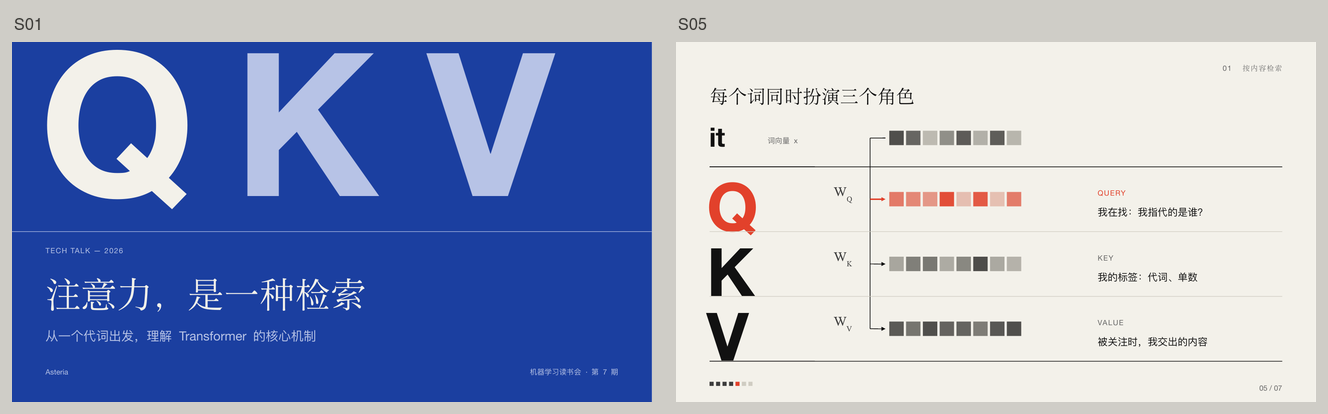
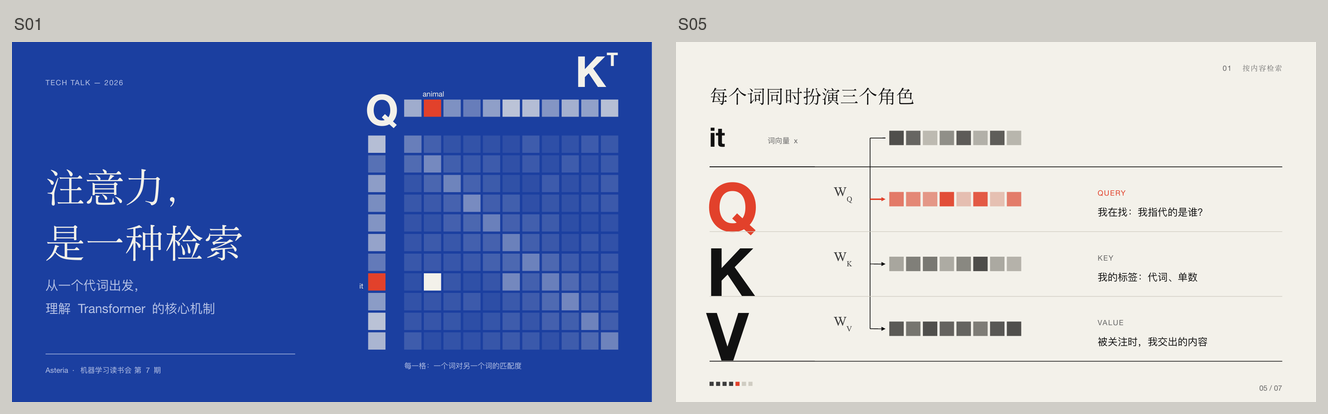
examples: revise B (lit, textured dark room) and C (cover shows the QKᵀ operation); record lessons
- B: warm charcoal ground with grain and a light falloff centred on the
  heatmap instead of flat near-black
- C: giant QKV letters replaced by the Q × Kᵀ → matrix operation at heading scale
- texture.js: --light option for subject-motivated light on dark pages
- anti-ai.md: oversized glyphs must carry meaning; bold needs substance
- color.md: dark pages need material (tinted dark, grain, motivated light)

diff --git a/examples/attention/directions/C/slides/S01-cover.js b/examples/attention/directions/C/slides/S01-cover.js
@@ -1,21 +1,52 @@
-// S01 — 封面：钴蓝色场，Q K V 三个巨大的字母从上方出血。符号本身就是主视觉。
+// S01 — 封面：钴蓝色场上画出 QKᵀ 这一次运算。Q 是一列，Kᵀ 是一行，相乘得到注意力矩阵；
+// 最亮的格子是 it → animal。符号仍然是主角，但每个符号都指向它所代表的东西。
+const TOKENS = ['The', 'animal', "didn't", 'cross', 'the', 'street', 'because', 'it', 'was', 'too', 'tired'];
+const N = TOKENS.length;
+function weight(r, c) {
+  if (r === 7 && c === 1) return 1;
+  if (r === 7 && c === 5) return 0.6;
+  const local = Math.exp(-Math.abs(r - c) * 1.1) * 0.5;
+  const s = Math.sin(r * 12.9898 + c * 78.233) * 43758.5453;
+  return Math.min(0.7, local + (s - Math.floor(s)) * 0.15);
+}
+const tone = (s) => { const v = Math.sin(s * 12.9898) * 43758.5453; return v - Math.floor(v); };
+
 module.exports = {
   id: 'S01',
   rhythm: 'anchor',
   title: '封面',
   transition: 'none',
-  notes: '开场：今天只讲一个想法——注意力机制本质上是一次“按内容检索”。Q、K、V 是今天的三个主角。',
+  notes: '开场：今天只讲一个想法——注意力机制本质上是一次“按内容检索”。右侧就是那次检索：每个词的 Query 与每个词的 Key 相乘，得到一张匹配度矩阵；最亮的一格是 it 找到了 animal。',
   build(k) {
     k.bg('field');
-    const glyphs = [['Q', 'fieldText'], ['K', 'fieldMuted'], ['V', 'fieldMuted']];
-    glyphs.forEach(([g, c], i) => {
-      k.text(g, { style: 'glyph', color: c, x: k.col(1 + i * 4) - 0.12, y: -0.95, w: 4, h: 5.05, bleed: true, nowrap: true, overlap: true });
-    });
-    k.rule({ x: 0, y: 3.95, w: k.W, color: 'fieldMuted', weight: 0.75 });
-    k.text('TECH TALK — 2026', { style: 'label', color: 'fieldMuted', x: k.M.x, y: 4.2, w: 4, nowrap: true });
-    k.text('注意力，是一种检索', { style: 'display', color: 'fieldText', x: k.M.x, y: 4.65, w: 9, nowrap: true });
-    k.text('从一个代词出发，理解 Transformer 的核心机制', { style: 'lead', color: 'fieldMuted', x: k.M.x, y: 5.8, w: 9, nowrap: true });
-    k.text('Asteria', { style: 'caption', color: 'fieldMuted', x: k.M.x, y: k.H - k.M.bottom - 0.26, w: 3, h: 0.26, nowrap: true });
-    k.text('机器学习读书会 · 第 7 期', { style: 'caption', color: 'fieldMuted', x: k.col(9), y: k.H - k.M.bottom - 0.26, w: k.span(9, 12).w, h: 0.26, align: 'right', nowrap: true });
+    const cell = 0.36, gap = 0.05, pitch = cell + gap;
+    const gx = k.W - k.M.x - N * pitch + gap;            // matrix
+    const gy = 1.95;
+    const qx = gx - 0.75;                                // Q column
+    const ky = gy - 0.75;                                // Kᵀ row
+    const cool = (t) => k.mix('field', 'fieldText', t);
+
+    for (let i = 0; i < N; i++) {
+      k.rect({ x: qx, y: gy + i * pitch, w: cell, h: cell, fill: i === 7 ? 'accent' : cool(0.25 + tone(i + 1) * 0.5) });
+      k.rect({ x: gx + i * pitch, y: ky, w: cell, h: cell, fill: i === 1 ? 'accent' : cool(0.25 + tone(i + 31) * 0.5) });
+      for (let j = 0; j < N; j++) {
+        const w = weight(i, j);
+        k.rect({ x: gx + j * pitch, y: gy + i * pitch, w: cell, h: cell, fill: w === 1 ? 'fieldText' : cool(0.08 + w * 0.55) });
+      }
+    }
+    // the operator's symbols, at the size of a heading rather than a wall
+    k.text('Q', { style: 'letter', size: 64, color: 'fieldText', x: qx - 0.05, y: ky - 0.35, w: 0.7, h: 1.1, nowrap: true, overlap: true });
+    k.text('K', { style: 'letter', size: 64, color: 'fieldText', x: gx + N * pitch - gap - 1.05, y: ky - 1.15, w: 0.8, h: 1.1, align: 'right', nowrap: true, overlap: true });
+    k.text('T', { style: 'letter', size: 28, color: 'fieldText', x: gx + N * pitch - gap - 0.24, y: ky - 1.08, w: 0.3, h: 0.5, nowrap: true, overlap: true });
+    k.text('it', { style: 'caption', font: 'latin', color: 'fieldText', x: qx - 0.5, y: gy + 7 * pitch + 0.08, w: 0.4, align: 'right', nowrap: true });
+    k.text('animal', { style: 'caption', font: 'latin', color: 'fieldText', x: gx + pitch - 0.35, y: ky - 0.3, w: 1.1, align: 'center', nowrap: true });
+    k.text('每一格：一个词对另一个词的匹配度', { style: 'caption', color: 'fieldMuted', x: gx, y: gy + N * pitch + 0.1, w: N * pitch, nowrap: true });
+
+    // type block, left
+    k.text('TECH TALK — 2026', { style: 'label', color: 'fieldMuted', x: k.M.x, y: k.M.top + 0.1, w: 4, nowrap: true });
+    k.text('注意力，\n是一种检索', { style: 'display', size: 60, color: 'fieldText', x: k.M.x, y: 2.35, w: 5.2, nowrap: true });
+    k.text('从一个代词出发，\n理解 Transformer 的核心机制', { style: 'lead', color: 'fieldMuted', x: k.M.x, y: 4.75, w: 5.2, nowrap: true });
+    k.rule({ x: k.M.x, y: k.H - k.M.bottom - 0.45, w: 5.2, color: 'fieldMuted', weight: 0.75 });
+    k.text('Asteria  ·  机器学习读书会 第 7 期', { style: 'caption', color: 'fieldMuted', x: k.M.x, y: k.H - k.M.bottom - 0.3, w: 5.2, h: 0.26, nowrap: true });
   },
 };

diff --git a/engine/texture.js b/engine/texture.js
@@ -1,9 +1,12 @@
 #!/usr/bin/env node
 // Generate a subtle paper-grain background for a given page color.
 //
-//   node engine/texture.js <hex> <out.jpg> [--strength 1]
+//   node engine/texture.js <hex> <out.jpg> [--strength 1] [--light cx,cy,radius,#hex]
 //
 // strength 1 ≈ luminance σ 1.9 on a light page: visible up close, calm from a distance. Use 0.5–1.5.
+// --light adds a soft light falloff around a point (cx, cy as fractions of the page, radius as a fraction
+// of the page width) — for dark pages where the subject is the light source, e.g. --light 0.72,0.5,0.6,#2A241F.
+// Only use it when something on the page motivates the light; a glow for its own sake is decoration.
 // Wire it up in theme.js: backgroundImages: { paper: 'assets/grain-paper.jpg' }.
 
 const fs = require('fs');
@@ -18,6 +21,8 @@ if (!/^#?[0-9a-fA-F]{6}$/.test(hex || '') || !out) {
 }
 const si = rest.indexOf('--strength');
 const strength = si >= 0 ? Number(rest[si + 1]) : 1;
+const li = rest.indexOf('--light');
+const light = li >= 0 ? rest[li + 1].split(',') : null;
 // Contrast window for the noise layers: narrower window = stronger grain.
 const win = (base) => { const half = Math.min(49, base / strength); return [`${50 - half}%`, `${50 + half}%`]; };
 
@@ -30,7 +35,17 @@ run(['-size', `${W}x${H}`, 'xc:gray50', '-seed', '3', '-attenuate', '1', '+noise
 run(['-size', `${Math.round(W / 20)}x${Math.round(H / 20)}`, 'xc:gray50', '-seed', '9', '-attenuate', '1', '+noise', 'Gaussian', '-colorspace', 'gray', '-blur', '0x2', '-resize', `${W}x${H}!`, mottle]);
 const [f0, f1] = win(25), [m0, m1] = win(20);
 fs.mkdirSync(path.dirname(path.resolve(out)), { recursive: true });
-run(['-size', `${W}x${H}`, `xc:#${hex.replace('#', '')}`,
+const base = `#${hex.replace('#', '')}`;
+const ground = path.join(tmp, 'ground.png');
+run(['-size', `${W}x${H}`, `xc:${base}`, ground]);
+if (light) {
+  const [cx, cy, rr, color] = light;
+  const r = Math.round(Number(rr) * W);
+  const glow = path.join(tmp, 'glow.png');
+  run(['-size', `${2 * r}x${2 * r}`, `radial-gradient:${color}-${base}`, glow]);
+  run([ground, glow, '-geometry', `+${Math.round(Number(cx) * W - r)}+${Math.round(Number(cy) * H - r)}`, '-compose', 'lighten', '-composite', ground]);
+}
+run([ground,
   '(', fine, '-level', `${f0},${f1}`, ')', '-compose', 'overlay', '-composite',
   '(', mottle, '-level', `${m0},${m1}`, ')', '-compose', 'overlay', '-composite',
   '-quality', '90', out]);

diff --git a/examples/attention/directions/B/theme.js b/examples/attention/directions/B/theme.js
@@ -6,8 +6,8 @@ module.exports = {
   lang: 'zh-CN',
   background: 'paper',
   colors: {
-    paper: '0F0F11',     // the room
-    paperDeep: '1B1A1E', // cold cells, quiet fields
+    paper: '17151A',     // the room: warm charcoal, never flat black
+    paperDeep: '221F24', // cold cells, quiet fields
     ink: 'F2F0EB',
     graphite: 'C9C5BD',
     stone: '9C978E',
@@ -38,6 +38,8 @@ module.exports = {
     number: { font: 'latinLight', size: 120, leading: 1, tracking: -3, color: 'ink' },
     math: { font: 'STIX Two Math', size: 30, leading: 1.2, color: 'ink' },
   },
+  // Grain + a soft light falloff: the matrix is the light source of the room (engine/texture.js --light).
+  backgroundImages: { paper: 'assets/room.jpg' },
   chart: { series: ['accent', 'stone'] },
   transition: 'fade',
 };

diff --git a/examples/attention/directions/B/slides/S01-cover.js b/examples/attention/directions/B/slides/S01-cover.js
@@ -16,6 +16,7 @@ module.exports = {
   transition: 'none',
   notes: '开场：今天只讲一个想法——注意力机制本质上是一次“按内容检索”。右侧是例句的注意力矩阵（示意），最亮的格子是 it 看向 animal。',
   build(k) {
+    k.bgImage('assets/room-cover.jpg'); // light centred on the matrix
     const N = TOKENS.length, cell = 0.5, gap = 0.06, pitch = cell + gap;
     const x0 = k.W - 0.55 - N * pitch + gap, y0 = (k.H - (N * pitch - gap)) / 2;
     for (let r = 0; r < N; r++) {

diff --git a/guides/aesthetic/color.md b/guides/aesthetic/color.md
@@ -23,7 +23,7 @@
 | 方向 | 气质 | paper | paperDeep | ink | graphite | stone | hairline | accent | 深色 / 色场 |
 |---|---|---|---|---|---|---|---|---|---|
 | 纸与墨 | 编辑、人文、安静 | `F4F2ED` | `E9E6DE` | `1B1B1A` | `4B4A46` | `6F6C65` | `D3CFC5` | `B4442B` 朱红 | night `151514` |
-| 暗场 | 电影感、发布会、整套深色 | `121212` | `1C1C1C` | `F2F0EB` | `C5C2BB` | `9A968E` | `3A3936` | `E3A33B` 琥珀 | — |
+| 暗场 | 电影感、发布会、整套深色 | `17151A` | `221F24` | `F2F0EB` | `C5C2BB` | `9A968E` | `3A3936` | `E3A33B` 琥珀 | — |
 | 色场 | 瑞士海报、强烈、自信 | `F3F1EA` | `E6E3D8` | `111111` | `3D3D3D` | `666666` | `CFCCC2` | `E2412B` 信号红 | field `1B3FA0` 钴蓝，文字 `F3F1EA` |
 | 实验室 | 技术、冷静、精确 | `F2F4F3` | `E4E8E6` | `1C2124` | `434A4E` | `687074` | `CED5D3` | `0F7B6C` 青绿 | night `0F1517` |
 | 植物 | 温和、自然、有机 | `EFEEE6` | `E3E1D5` | `1F241F` | `474D45` | `656A5F` | `D0CFC2` | `5B6B2F` 橄榄 | night `171A15` |
@@ -39,6 +39,10 @@
 - 在浅色为主的演示里，深色页和色场页用来制造节奏：章节转换、核心结论、签名画面。
 - 整套深色也是完全成立的方向，适合电影感、发布会或暗场环境。
 - 深色页的文字色要单独定义（`nightText`、`nightMuted`），不能直接复用浅色页的灰。
+- **深色不是纯平的近黑。** 平涂的 `#0F0F11` 加白字，是最典型的 AI 深色模板。深色要有材质：
+  - 带色相的深色：暖炭（`17151A`）、墨蓝、深橄榄，而不是中性黑；
+  - 颗粒：`node engine/texture.js <底色> out.jpg --strength 0.5`（深底上强度要比浅底低，0.5 左右即可）；
+  - 有来由的光：如果页面上有一个“光源”（热图、照片、发光的对象），可以加一圈柔和的光照衰减：`--light cx,cy,半径,#色值`。没有光源时不要加，那就成了装饰性的发光。
 
 ## 常见问题
 

diff --git a/guides/aesthetic/anti-ai.md b/guides/aesthetic/anti-ai.md
@@ -40,6 +40,7 @@ AI 生成的幻灯片一眼就能认出来，原因不是“丑”，而是**没
 - 主角太小，或者三个同样大小的元素等距排开，没有主角。
 - 留白被切成几条均匀的缝，而不是集中成一大块。
 - 丢掉了贯穿的例子：前一页刚讲过具体的例子，这一页又回到抽象。
+- 巨大的字形什么都不承载：把符号放大到占满半页，看起来大胆，其实是空的。放大的符号必须指向它所代表的东西（例：Q 旁边就是 Q 那一列格子），或者干脆缩小到标题的尺度。
 
 改法：讲解页要有一张图来承担机制，名字只是图上的标签。图的形式见 `data-and-diagrams.md` 的“图解配方”；用贯穿的例子把图填实；复用整套的母题；让图大起来。
 
@@ -61,7 +62,7 @@ AI 生成的幻灯片一眼就能认出来，原因不是“丑”，而是**没
 - 视觉语言从主题里推导（`principles.md` 第 2 条），并在设计文稿里写明它从内容的哪个特征来。
 - 样张阶段先做 2–3 个**截然不同**的方向放在一起比较，而不是直接深化第一个想到的方向。
 - 指定签名画面，并真正给它们更多的打磨。
-- 敢于用强烈的东西：满版的颜色、巨大的字、深色的整套、一张占满屏幕的图。克制是一种选择，不是默认值。
+- 敢于用强烈的东西：满版的颜色、巨大的字、深色的整套、一张占满屏幕的图。克制是一种选择，不是默认值。但“强烈”必须有内容支撑：大字要承载意义，深色要有材质。
 
 ## 四、自检问题
 

diff --git a/guides/aesthetic/composition.md b/guides/aesthetic/composition.md
@@ -83,7 +83,7 @@
 | **尺寸线** | 多长、多大、哪一段 | 工程图式：细线加两端短竖线，标注在下方 |
 | **刻度与对位** | 这一步对应图的哪一列 | 例：把公式拆成几步，分别对齐到画它的那一列，在分隔线上用刻度相连 |
 | **色块分区** | 这一块是不同的区域（输入 / 输出、正文 / 注释） | 整块平涂次背景色（paperDeep），可以出血；不加圆角、阴影和边框。分区内的小字改用 graphite 色，以保证对比度 |
-| **纸张颗粒** | 质感（整套统一） | `node engine/texture.js <背景色> assets/grain-paper.jpg` 生成，在 theme 中设置 `backgroundImages: { paper: ... }`。强度默认 1（亮度标准差约 1.9），必须在投影或大屏上确认效果 |
+| **纸张颗粒 / 光照** | 质感（整套统一）；深色页上由主体驱动的光 | `node engine/texture.js <背景色> assets/grain-paper.jpg` 生成，在 theme 中设置 `backgroundImages: { paper: ... }`。浅底强度约 1，深底约 0.5；深色页可加 `--light`（见 `color.md`）。必须在投影或大屏上确认效果 |
 
 - 结构层在**设计阶段**决定：这套演示用哪几种，写进 `design.md` 的“结构层”一节，并实现在 deck 的 `parts.js` 里（模板见 `templates/deck/parts.js`，实例见 `examples/attention/parts.js`）。
 - 结构元素必须比内容更轻：字号用 label 或 caption，颜色用 stone 或 graphite，线宽 0.5pt。如果它比图解还抢眼，就是做错了。
